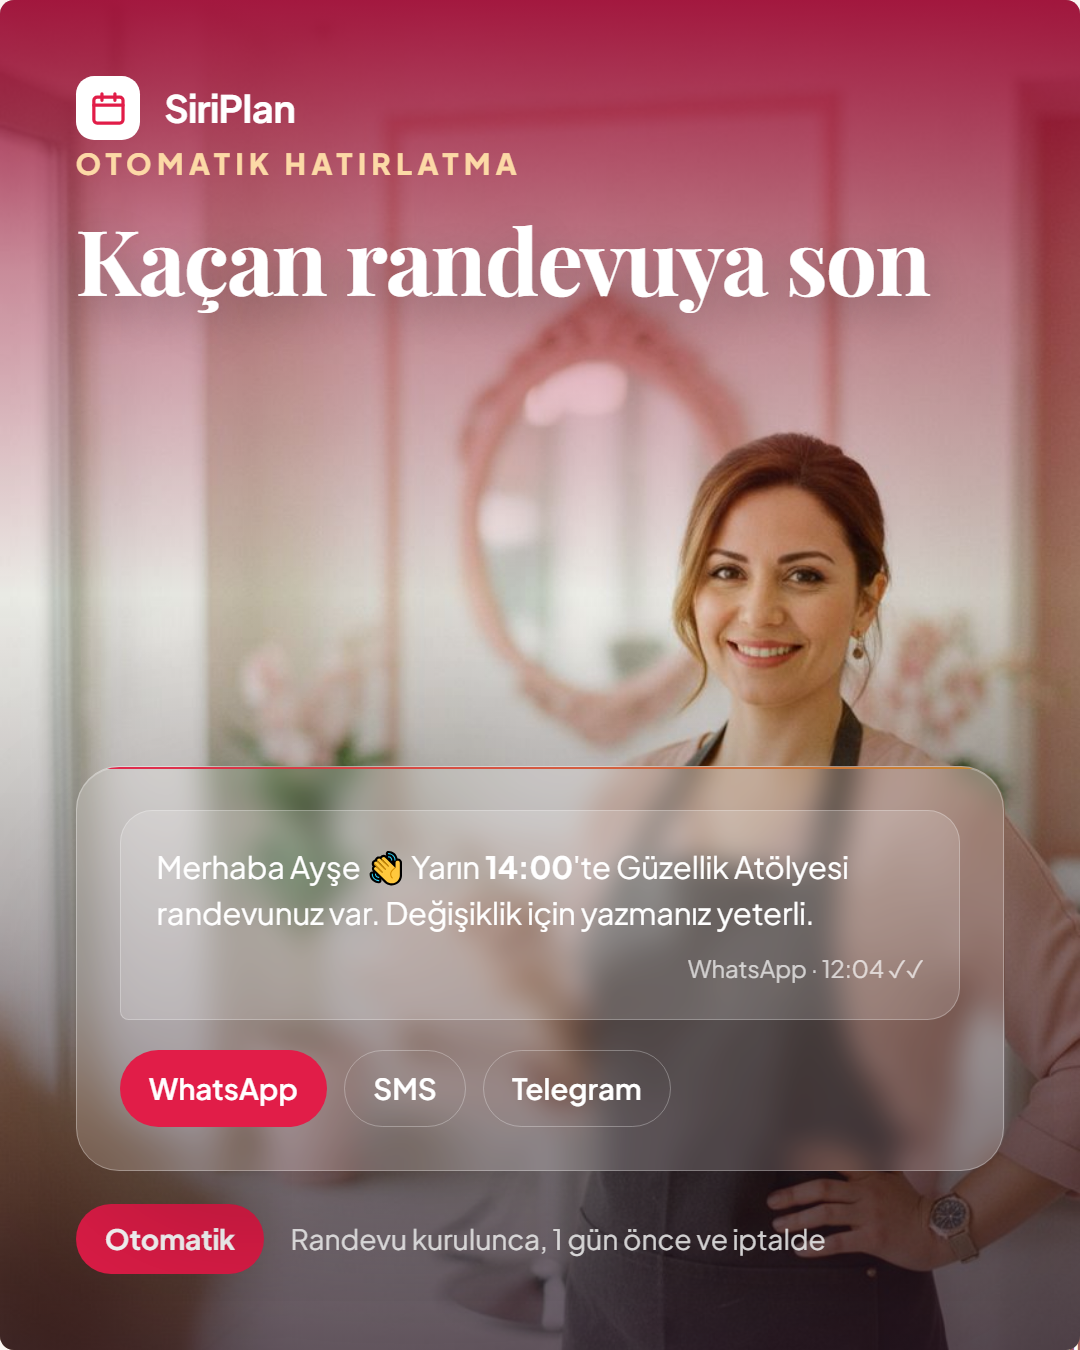
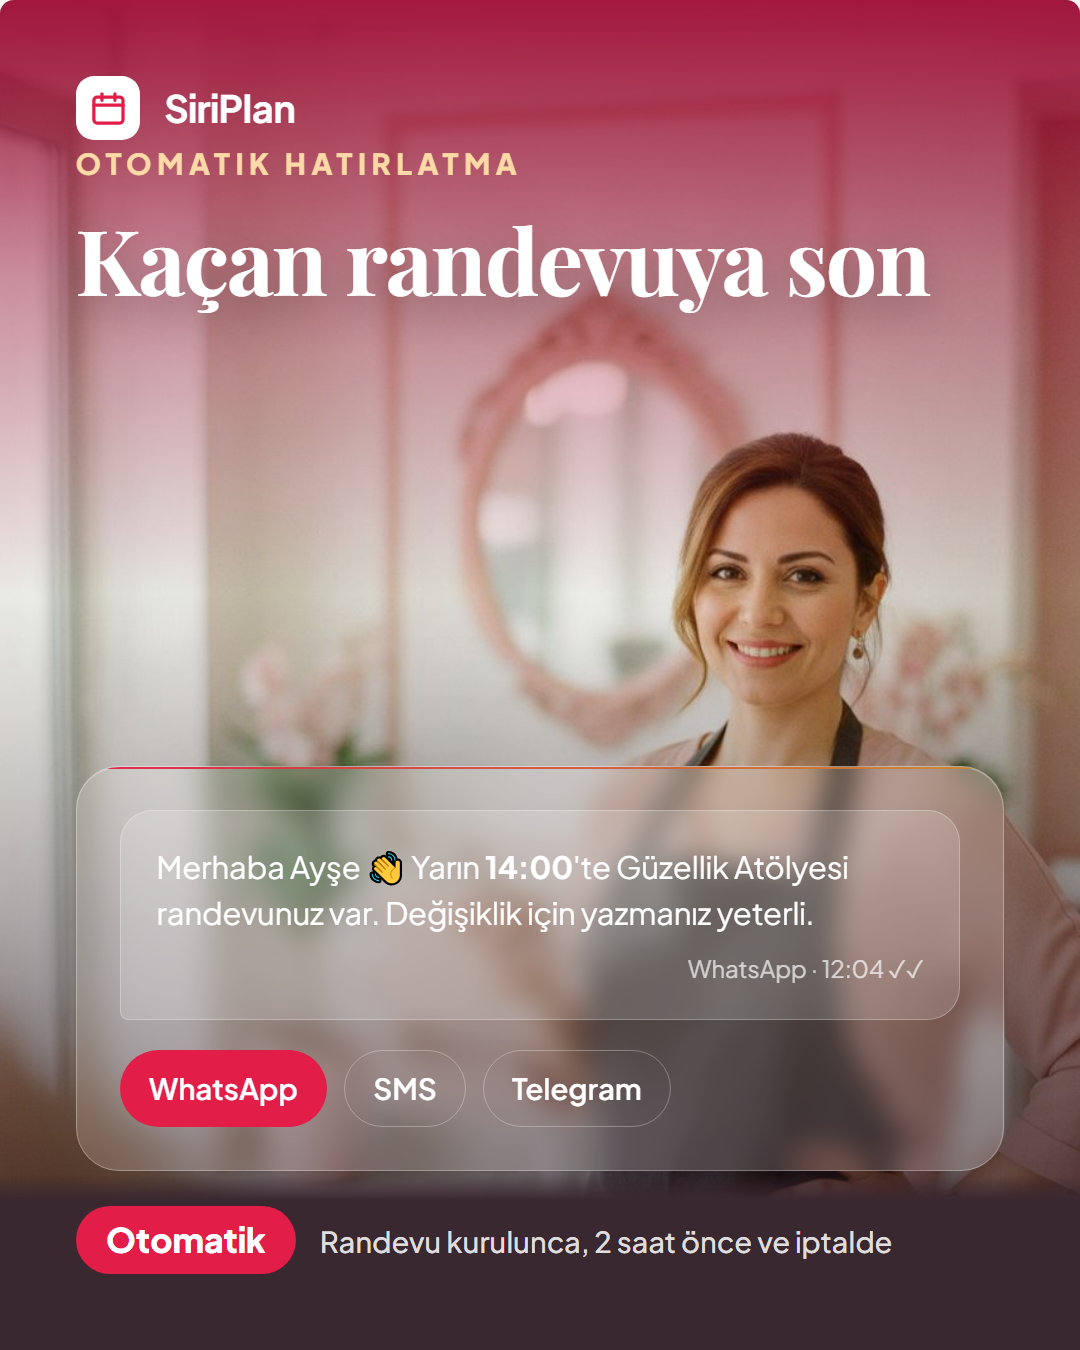
chore(sosyal-medya): store tanıtım görselleri (takvim, kampanyalar) + galeri güncellemesi

Changed region(s): [[0.0917, 0.8711, 1.0, 1.0], [0.0, 0.9956, 0.0306, 1.0]]

diff --git a/docs/sosyal-medya/2026-09-app-tanitim-gorselleri/gallery.html b/docs/sosyal-medya/2026-09-app-tanitim-gorselleri/gallery.html
@@ -25,6 +25,8 @@ h2{font-size:14px;text-transform:uppercase;letter-spacing:.06em;color:var(--mute
   <div class="card"><img src="play-store-promo-01-anasayfa-1080x1920.png"><div class="cap">Promo ekran görüntüsü 1 — Genel yönetim</div></div>
   <div class="card"><img src="play-store-promo-02-stok-1080x1920.png"><div class="cap">Promo ekran görüntüsü 2 — Kritik stok</div></div>
   <div class="card"><img src="play-store-promo-03-gelirgider-1080x1920.png"><div class="cap">Promo ekran görüntüsü 3 — Gelir &amp; Gider</div></div>
+  <div class="card"><img src="play-store-promo-04-takvim-1080x1920.png"><div class="cap">Promo ekran görüntüsü 4 — Takvim</div></div>
+  <div class="card"><img src="play-store-promo-05-kampanya-1080x1920.png"><div class="cap">Promo ekran görüntüsü 5 — Kampanyalar</div></div>
 </div>
 
 <h2>Instagram Feed (1080×1080)</h2>
